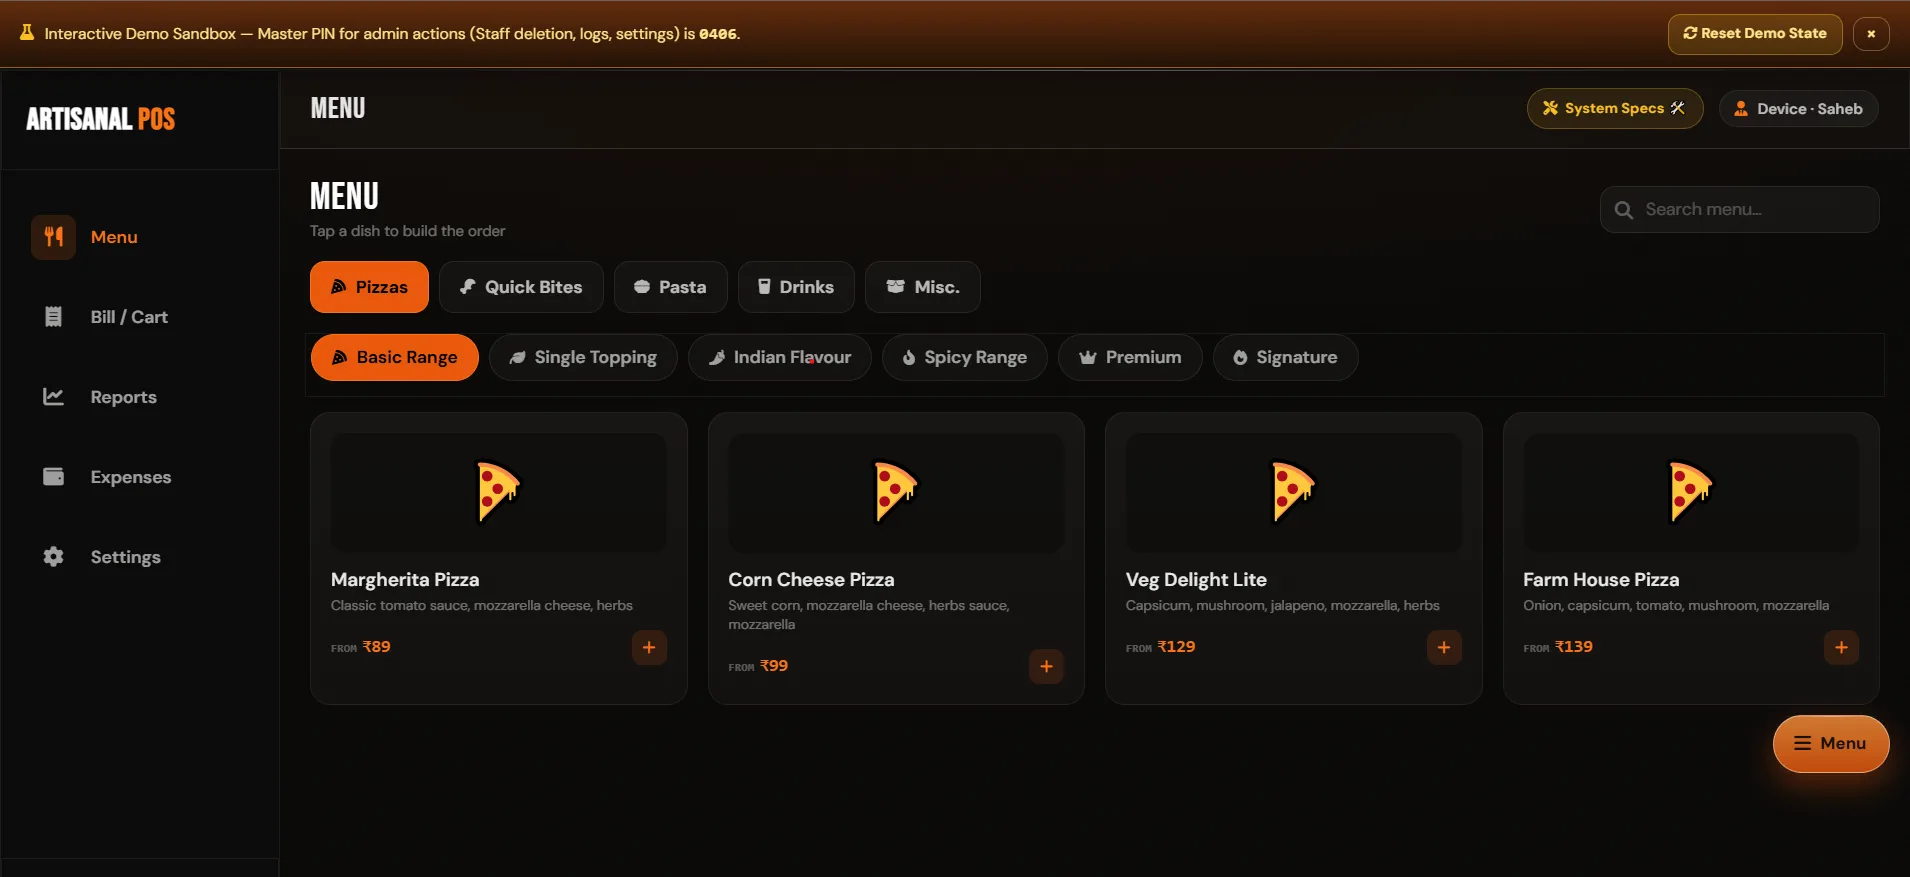
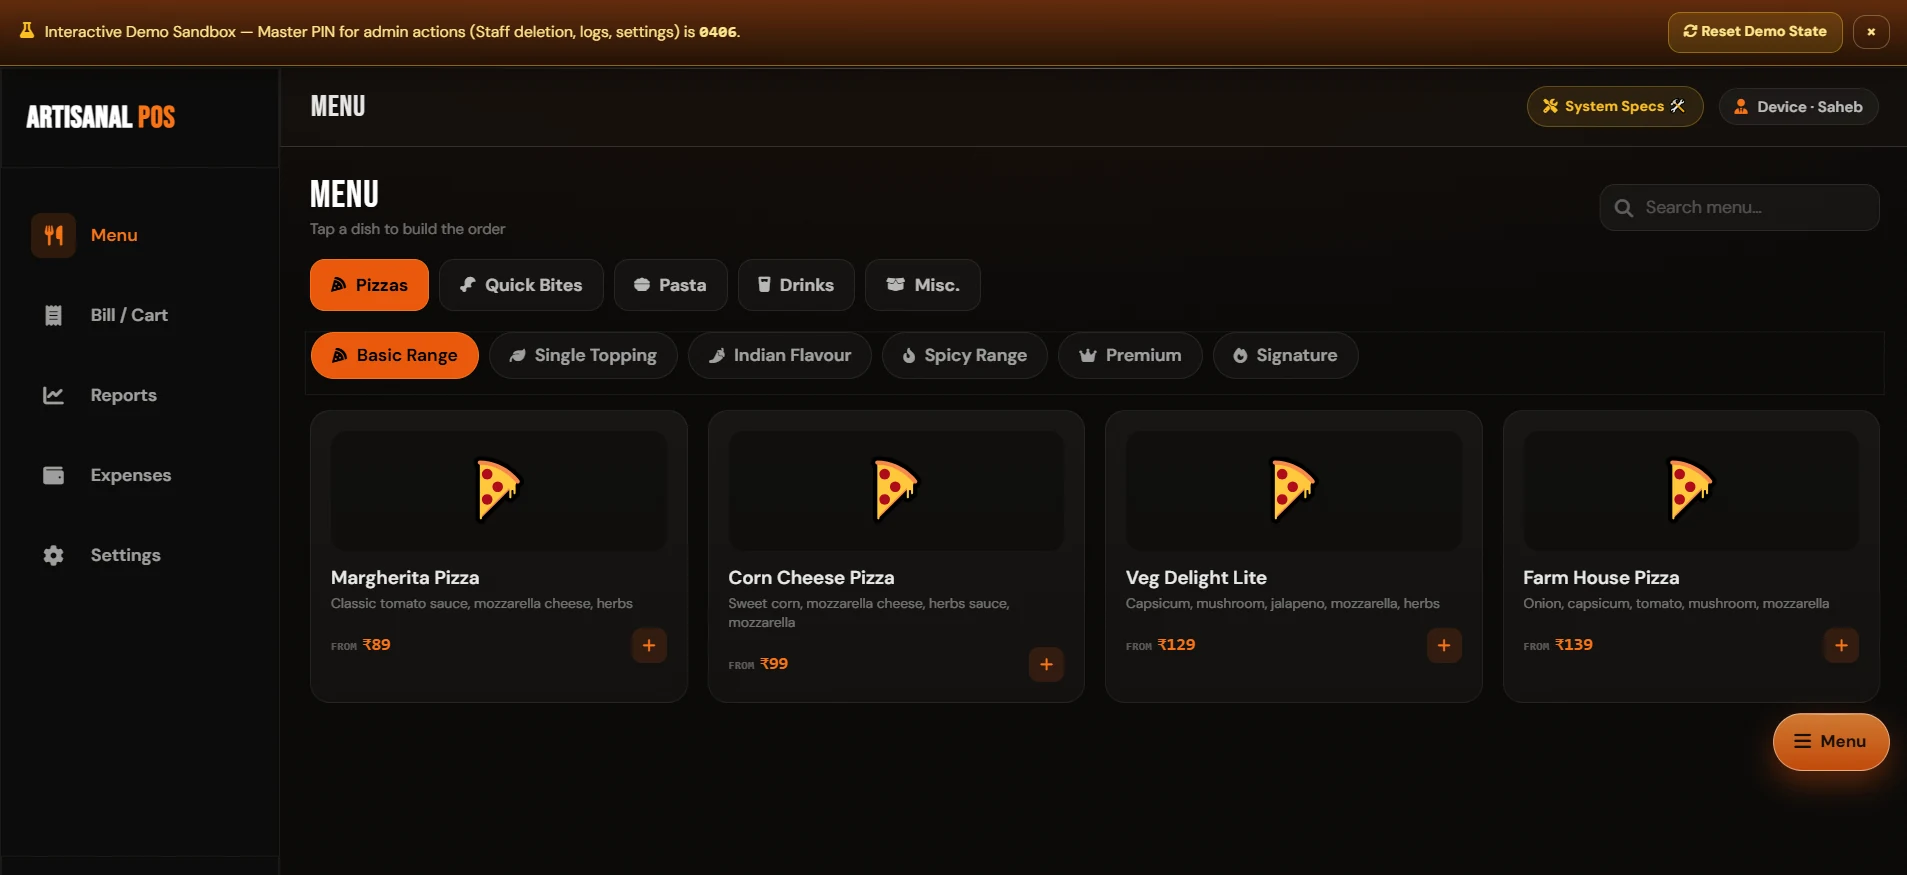
Cloud POS: new desktop screenshot

diff --git a/src/lib/projects.ts b/src/lib/projects.ts
@@ -52,7 +52,7 @@ export const PROJECTS: Project[] = [
     cta: 'View live demo',
     image: demoPreview,
     imageAlt: 'Artisanal POS live demo — menu ordering screen',
-    imageSize: [1910, 877],
+    imageSize: [1907, 875],
     mobileImage: posMobile,
     mobileAlt: 'Artisanal POS on a phone — menu and order bar',
     mobileSize: [1180, 2000],
